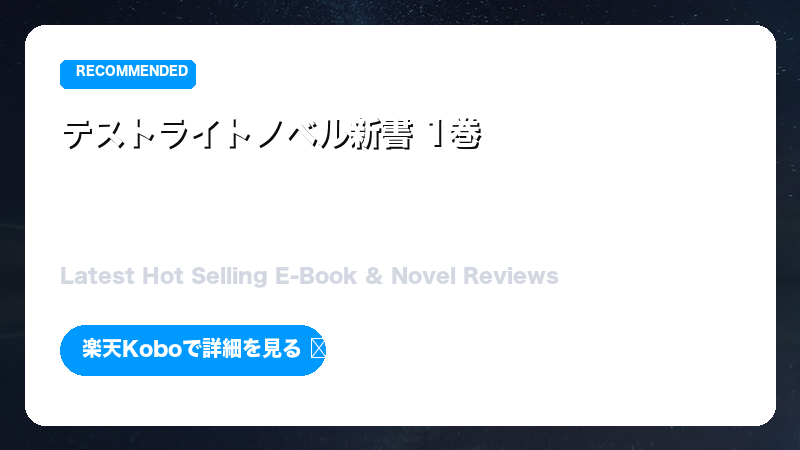
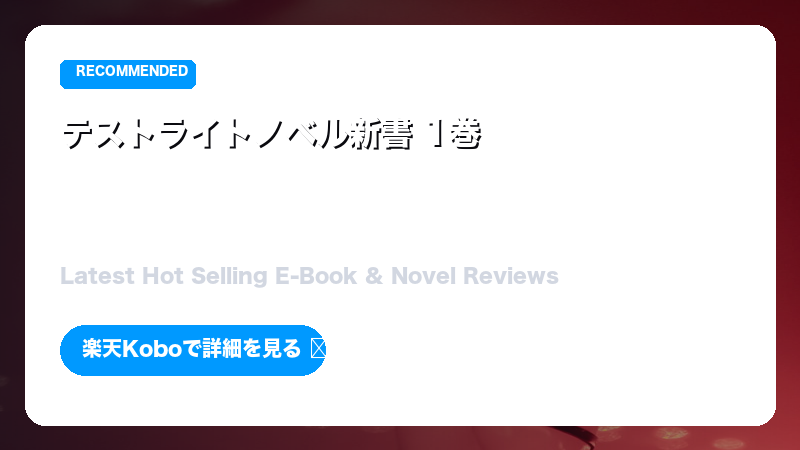
更新

Changed region(s): [[0.0, 0.0, 1.0, 1.0], [0.0, 0.4044, 0.0312, 0.4667]]

diff --git a/article_generator.py b/article_generator.py
@@ -21,7 +21,7 @@ class ArticleGenerator:
         price = item.get("price", "")
         url = item.get("url", "")
 
-        prompt = f"""以下のAmazonの商品情報を元に、はてなブログの「編集部おすすめ」に選出されるレベルの、熱量が高く独自の視点に満ちた個人ブログのレビュー記事を執筆してください。
+        prompt = f"""以下の楽天Kobo電子書籍の商品情報を元に、はてなブログの「編集部おすすめ」に選出されるレベルの、熱量が高く独自の視点に満ちた個人ブログのレビュー記事を執筆してください。
 単なる仕様説明や一般的な評価の羅列（テンプレ記事）を徹底的に排除し、あなたの「偏愛」や「ストーリー」を感じさせる、唯一無二の記事に仕上げてください。
 
 【商品名】: {title}
@@ -33,14 +33,14 @@ class ArticleGenerator:
 【執筆の構成ルール（見出しの自律設計）】:
 - 固定された章構成（「はじめに」「デザイン」など）は使用しないでください。商品の特性やあなたが最も伝えたい魅力に合わせ、読者を惹きつけるキャッチーな見出し（3〜5個程度）を自律的に考案してください（例: 「## ◯◯という沼にハマる」「## 1ヶ月使い倒して気づいた、意外な盲点」など）。
 - 記事の導入は、製品の無味乾燥な紹介ではなく、あなたの日常の課題や、その製品を導入せざるを得なかった背景などの「ストーリー（エッセイ風の書き出し）」から始めてください。
-- 「独自のこだわり評価軸」を必ず1つ設定して語ってください（例: 「ノイキャン性能がもたらす『カフェでの究極の没入感』」「カバンの中の極小スペースにいかに美しく収まるか」など）。
-- デメリットや「ここは惜しい！」というポイントを、スペック批判ではなく、実体験に基づくリアルな本音として包み隠さず書いてください。
+- 「独自のこだわり評価軸」を必ず1つ設定して語ってください（例: 「この作品がもたらす極上の読書体験」「仕事の合間に脳をリセットする瞬間」など）。
+- デメリットや「ここは惜しい！」というポイントを、スペック批判ではなく、読後のリアルな感想・本音として包み隠さず書いてください。
 
 【執筆の厳格なルール（最優先）】:
 1. ブログ記事の**本文のみ**を出力してください。挨拶文（「承知しました」「以下が記事です」など）や、記事の解説、まとめのアドバイス（「以上のように、自然な言葉遣い〜」「購入につなげることができます」など）は**絶対に1文字も出力しないでください**。記事の最後は「ぜひチェックしてみてください！」などの読者へのメッセージで終了させてください。
 2. 「アフィリエイト」「アフィリンク」「誘導」「広告」といった、読者に商業的な意図を直接感じさせる言葉は**見出し・本文含め、絶対に記事内に出力しないでください**。
 3. 記事はMarkdown（マークダウン）形式で執筆してください。見出しは「## 」「### 」を使用し、箇条書きは「- 」を使用してください。
-4. 商品リンクは, 文末付近に自然な形で `[Amazonで「{clean_title}」の価格やクチコミをチェックする]({url})` のようにMarkdownのリンク記法で埋め込んでください。
+4. 商品リンクは, 文末付近に自然な形で `[楽天Koboで「{clean_title}」の電子書籍をチェックする]({url})` のようにMarkdownのリンク記法で埋め込んでください。
 5. AI特有の「〜はいかがでしょうか」「〜をご紹介します」「〜と言えるでしょう」「〜の特徴を持っています」といった説明調のテンプレフレーズを多用せず、人間が強いこだわりを持って書いたレビューのリアリティと熱量のある文体で書いてください。
 """
 
@@ -82,7 +82,7 @@ class ArticleGenerator:
 ## 実用性を超えたマニアックな視点での評価
 テスト特徴1、特徴2、特徴3により、非常に高いレベルの実用性を誇ります。
 
-[Amazonで「{clean_title}」の価格やクチコミをチェックする]({url})
+[楽天Koboで「{clean_title}」の電子書籍をチェックする]({url})
 ぜひチェックしてみてください！"""
 
         # Post-Processing to clean up LLM meta-explanations

diff --git a/kobo_blogger.py b/kobo_blogger.py
@@ -107,7 +107,7 @@ def main():
     rakuten_affiliate_id = os.environ.get("RAKUTEN_AFFILIATE_ID", "DUMMY_AFFILIATE_ID")
     
     hatena_id = os.environ.get("HATENA_ID", "DUMMY_HATENA_ID")
-    blog_id = os.environ.get("HATENA_BLOG_ID", "DUMMY_BLOG_ID")
+    blog_id = os.environ.get("HATENA_BLOG_ID", "book-muryo.hateblo.jp")
     hatena_api_key = os.environ.get("HATENA_API_KEY", "")
 
     dry_run = not hatena_api_key or hatena_api_key.startswith("DUMMY")

diff --git a/README.md b/README.md
@@ -33,7 +33,7 @@ GitHubリポジトリの `Settings` > `Secrets and variables` > `Actions` に以
 | `RAKUTEN_APP_ID` | 楽天ウェブサービス アプリID |
 | `RAKUTEN_AFFILIATE_ID` | 楽天アソシエイトID (アフィリエイトID) |
 | `HATENA_ID` | はてなID (はてなブログのアカウント名) |
-| `HATENA_BLOG_ID` | はてなブログのドメイン（例: `your-blog.hatenablog.com`） |
+| `HATENA_BLOG_ID` | はてなブログのドメイン（例: `book-muryo.hateblo.jp`） |
 | `HATENA_API_KEY` | はてなブログ管理画面「詳細設定」から取得できるAPIキー |
 | `GEMINI_API_KEY` | Gemini APIキー (任意: LLM生成のファーストチョイスとして使用) |
 